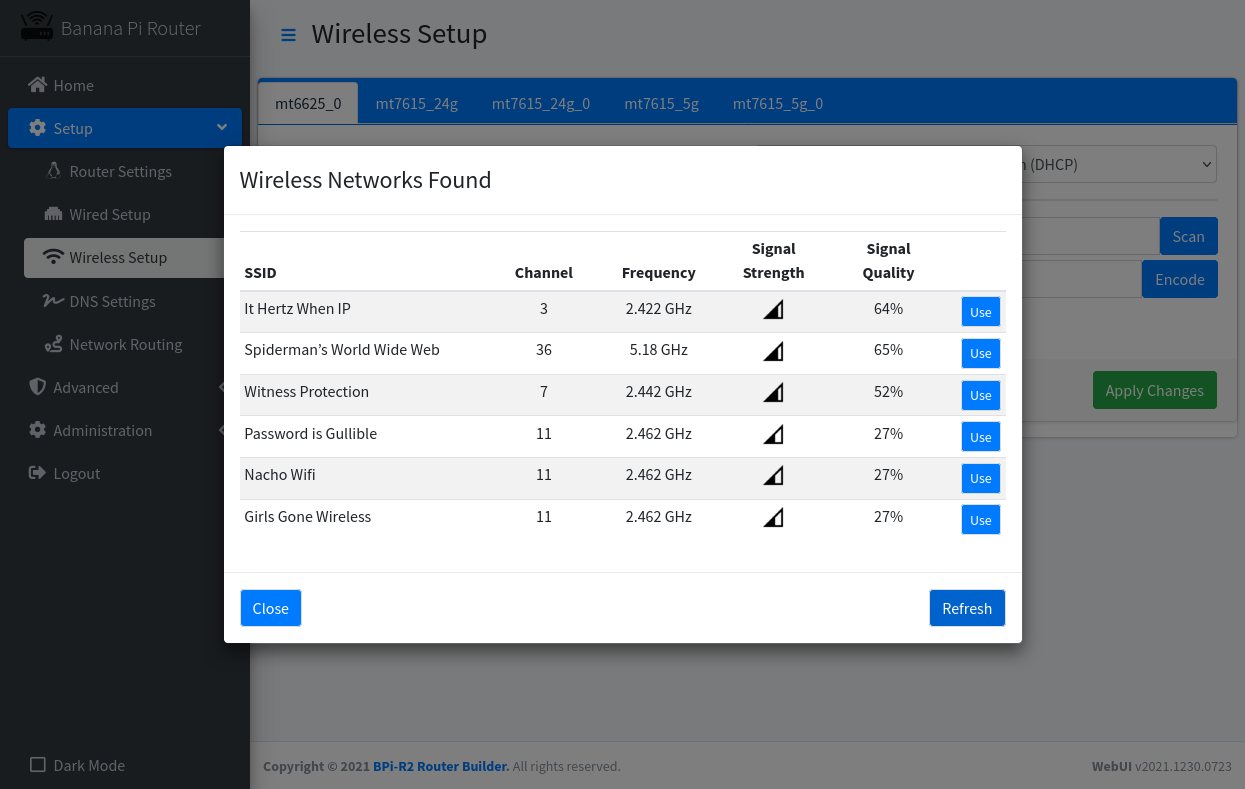
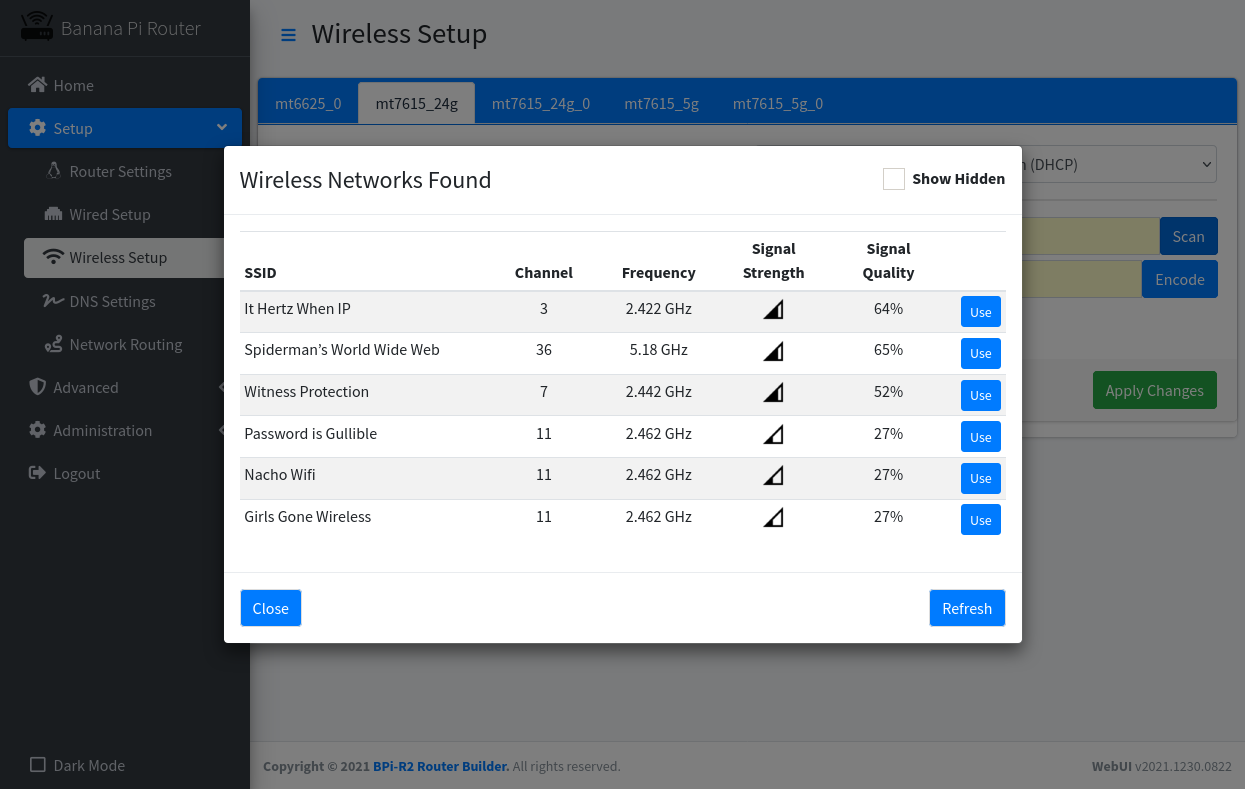
Updated WebUI Setup / Wireless Setu

diff --git a/router/js/site-setup.js b/router/js/site-setup.js
@@ -591,6 +591,7 @@ function Init_Wireless(iface, wifi_net, ap_net)
 		Wireless_Scan();
 	});
 	$("#scan_refresh").click(Wireless_Scan);
+	$("#show_hidden").click(Wireless_Scan);
 	__Init_DHCP();
 }
 
@@ -672,7 +673,7 @@ function Wireless_Scan()
 		'sid':        SID,
 		'action':     'scan',
 		'iface':      iface_used,
-		'all':        'N',
+		'hidden':     $("#show_hidden").is(":checked") ? 'Y' : 'N',
 		'test':       $('#scan-test').val(),
 	};
 	//alert(JSON.stringify(postdata, null, 5)); return;

diff --git a/router/includes/setup-wireless.php b/router/includes/setup-wireless.php
@@ -75,10 +75,10 @@ if (isset($_POST['action']))
 				'</tr>',
 			'</thead>',
 			'<tbody>';
-		$all = option("all") == "Y";
+		$hidden = option("hidden") == "Y";
 		foreach ($networks as $network)
 		{
-			if ($all || !empty($network['ssid']))
+			if ($hidden || !empty($network['ssid']))
 				echo 
 				'<tr>',
 					'<td class="network_name">', empty($network['ssid']) ? '<i>(No SSID broadcast)</i>' : $network['ssid'], '</td>',
@@ -369,6 +369,10 @@ echo '
 		<div class="modal-content">
 			<div class="modal-header">
 				<h4 class="modal-title">Wireless Networks Found</h4>
+				<div class="icheck-primary">
+					<input type="checkbox" id="show_hidden">
+					<label for="show_hidden">Show Hidden</label>
+				</div>
 			</div>
 			<div class="modal-body">
 				<p id="scan_data"></p>
